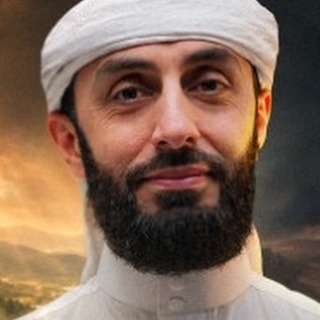
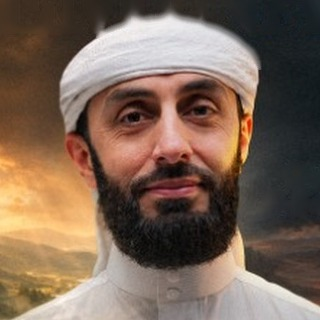
Restore original thumbnails; zoomed-out portrait of Shaykh Ali
Claude-Session: https://claude.ai/code/session_01KZfaKi19dkNuS3dSrDceg3

diff --git a/index.html b/index.html
@@ -215,7 +215,7 @@ h1.shine{animation:shimmer 6s linear infinite, fadeUp .9s cubic-bezier(.2,.7,.2,
 <div style="display: flex; flex-direction: column; gap: 16px">
 <div class="city-group" data-group="London" style="display: flex; flex-direction: column; gap: 16px">
 <div class="lift reveal" style="background: #3B2C1B; border: 1px solid rgba(226,193,126,0.35); border-radius: 20px; padding: 18px; display: flex; flex-wrap: wrap; align-items: center; gap: 20px 28px">
-<img src="assets/thumb-righteous-home.jpg" alt="" style="width: 128px; height: 100px; object-fit: cover; object-position: center bottom; border-radius: 12px; border: 1px solid rgba(226,193,126,0.4); display: block; flex: none">
+<img src="assets/thumb-righteous-home.jpg" alt="" style="width: 104px; height: 104px; object-fit: cover; object-position: center top; border-radius: 12px; border: 1px solid rgba(226,193,126,0.4); display: block; flex: none">
 <div style="flex: none; width: 84px; text-align: center"><p class="gold-text" style="margin: 0; font-family: Cinzel, serif; font-size: 44px; font-weight: 700; line-height: 1">24</p><p style="margin: 2px 0 0; font-size: 12px; font-weight: 600; letter-spacing: 0.24em; color: #E2C17E">DEC</p><p style="margin: 6px 0 0; font-family: 'Playfair Display', serif; font-style: italic; font-size: 14px; color: #F3EAD6">Thursday</p></div>
 <div style="flex: 999 1 260px; min-width: 0">
 <p style="margin: 0 0 4px; display: inline-block; font-size: 11px; font-weight: 700; letter-spacing: 0.16em; text-transform: uppercase; color: #1A140C; background: #F1D99C; padding: 2px 10px; border-radius: 999px">Brothers only</p>
@@ -229,7 +229,7 @@ h1.shine{animation:shimmer 6s linear infinite, fadeUp .9s cubic-bezier(.2,.7,.2,
 </div>
 
 <div class="lift reveal" style="background: #3B2C1B; border: 1px solid rgba(226,193,126,0.35); border-radius: 20px; padding: 18px; display: flex; flex-wrap: wrap; align-items: center; gap: 20px 28px">
-<img src="assets/thumb-productive-ramadan.jpg" alt="" style="width: 128px; height: 100px; object-fit: cover; object-position: center bottom; border-radius: 12px; border: 1px solid rgba(226,193,126,0.4); display: block; flex: none">
+<img src="assets/thumb-productive-ramadan.jpg" alt="" style="width: 104px; height: 104px; object-fit: cover; object-position: center top; border-radius: 12px; border: 1px solid rgba(226,193,126,0.4); display: block; flex: none">
 <div style="flex: none; width: 84px; text-align: center"><p class="gold-text" style="margin: 0; font-family: Cinzel, serif; font-size: 44px; font-weight: 700; line-height: 1">24</p><p style="margin: 2px 0 0; font-size: 12px; font-weight: 600; letter-spacing: 0.24em; color: #E2C17E">DEC</p><p style="margin: 6px 0 0; font-family: 'Playfair Display', serif; font-style: italic; font-size: 14px; color: #F3EAD6">Thursday</p></div>
 <div style="flex: 999 1 260px; min-width: 0">
 <p style="margin: 0 0 4px; display: inline-block; font-size: 11px; font-weight: 700; letter-spacing: 0.16em; text-transform: uppercase; color: #1A140C; background: #F1D99C; padding: 2px 10px; border-radius: 999px">[Open to]</p>
@@ -243,7 +243,7 @@ h1.shine{animation:shimmer 6s linear infinite, fadeUp .9s cubic-bezier(.2,.7,.2,
 </div>
 
 <div class="lift reveal" style="background: #3B2C1B; border: 1px solid rgba(226,193,126,0.35); border-radius: 20px; padding: 18px; display: flex; flex-wrap: wrap; align-items: center; gap: 20px 28px">
-<img src="assets/thumb-araf-london.jpg" alt="" style="width: 128px; height: 100px; object-fit: cover; object-position: center bottom; border-radius: 12px; border: 1px solid rgba(226,193,126,0.4); display: block; flex: none">
+<img src="assets/thumb-araf-london.jpg" alt="" style="width: 104px; height: 104px; object-fit: cover; object-position: center top; border-radius: 12px; border: 1px solid rgba(226,193,126,0.4); display: block; flex: none">
 <div style="flex: none; width: 84px; text-align: center"><p class="gold-text" style="margin: 0; font-family: Cinzel, serif; font-size: 44px; font-weight: 700; line-height: 1">26</p><p style="margin: 2px 0 0; font-size: 12px; font-weight: 600; letter-spacing: 0.24em; color: #E2C17E">DEC</p><p style="margin: 6px 0 0; font-family: 'Playfair Display', serif; font-style: italic; font-size: 14px; color: #F3EAD6">Saturday</p></div>
 <div style="flex: 999 1 260px; min-width: 0">
 <p style="margin: 0 0 4px; display: inline-block; font-size: 11px; font-weight: 700; letter-spacing: 0.16em; text-transform: uppercase; color: #1A140C; background: #F1D99C; padding: 2px 10px; border-radius: 999px">[Open to]</p>
@@ -257,7 +257,7 @@ h1.shine{animation:shimmer 6s linear infinite, fadeUp .9s cubic-bezier(.2,.7,.2,
 </div>
 
 <div class="lift reveal" style="background: #3B2C1B; border: 1px solid rgba(226,193,126,0.35); border-radius: 20px; padding: 18px; display: flex; flex-wrap: wrap; align-items: center; gap: 20px 28px">
-<img src="assets/thumb-al-fatiha.jpg" alt="" style="width: 128px; height: 100px; object-fit: cover; object-position: center bottom; border-radius: 12px; border: 1px solid rgba(226,193,126,0.4); display: block; flex: none">
+<img src="assets/thumb-al-fatiha.jpg" alt="" style="width: 104px; height: 104px; object-fit: cover; object-position: center top; border-radius: 12px; border: 1px solid rgba(226,193,126,0.4); display: block; flex: none">
 <div style="flex: none; width: 84px; text-align: center"><p class="gold-text" style="margin: 0; font-family: Cinzel, serif; font-size: 44px; font-weight: 700; line-height: 1">9</p><p style="margin: 2px 0 0; font-size: 12px; font-weight: 600; letter-spacing: 0.24em; color: #E2C17E">JAN</p><p style="margin: 6px 0 0; font-family: 'Playfair Display', serif; font-style: italic; font-size: 14px; color: #F3EAD6">Saturday</p></div>
 <div style="flex: 999 1 260px; min-width: 0">
 <p style="margin: 0 0 4px; display: inline-block; font-size: 11px; font-weight: 700; letter-spacing: 0.16em; text-transform: uppercase; color: #1A140C; background: #F1D99C; padding: 2px 10px; border-radius: 999px">Special seminar</p>
@@ -272,7 +272,7 @@ h1.shine{animation:shimmer 6s linear infinite, fadeUp .9s cubic-bezier(.2,.7,.2,
 </div>
 <div class="city-group" data-group="Birmingham" hidden style="display: flex; flex-direction: column; gap: 16px">
 <div class="lift reveal" style="background: #3B2C1B; border: 1px solid rgba(226,193,126,0.35); border-radius: 20px; padding: 18px; display: flex; flex-wrap: wrap; align-items: center; gap: 20px 28px">
-<img src="assets/thumb-righteous-home.jpg" alt="" style="width: 128px; height: 100px; object-fit: cover; object-position: center bottom; border-radius: 12px; border: 1px solid rgba(226,193,126,0.4); display: block; flex: none">
+<img src="assets/thumb-righteous-home.jpg" alt="" style="width: 104px; height: 104px; object-fit: cover; object-position: center top; border-radius: 12px; border: 1px solid rgba(226,193,126,0.4); display: block; flex: none">
 <div style="flex: none; width: 84px; text-align: center"><p class="gold-text" style="margin: 0; font-family: Cinzel, serif; font-size: 44px; font-weight: 700; line-height: 1">26</p><p style="margin: 2px 0 0; font-size: 12px; font-weight: 600; letter-spacing: 0.24em; color: #E2C17E">DEC</p><p style="margin: 6px 0 0; font-family: 'Playfair Display', serif; font-style: italic; font-size: 14px; color: #F3EAD6">Saturday</p></div>
 <div style="flex: 999 1 260px; min-width: 0">
 <p style="margin: 0 0 4px; display: inline-block; font-size: 11px; font-weight: 700; letter-spacing: 0.16em; text-transform: uppercase; color: #1A140C; background: #F1D99C; padding: 2px 10px; border-radius: 999px">Brothers only</p>
@@ -286,7 +286,7 @@ h1.shine{animation:shimmer 6s linear infinite, fadeUp .9s cubic-bezier(.2,.7,.2,
 </div>
 
 <div class="lift reveal" style="background: #3B2C1B; border: 1px solid rgba(226,193,126,0.35); border-radius: 20px; padding: 18px; display: flex; flex-wrap: wrap; align-items: center; gap: 20px 28px">
-<img src="assets/thumb-productive-ramadan.jpg" alt="" style="width: 128px; height: 100px; object-fit: cover; object-position: center bottom; border-radius: 12px; border: 1px solid rgba(226,193,126,0.4); display: block; flex: none">
+<img src="assets/thumb-productive-ramadan.jpg" alt="" style="width: 104px; height: 104px; object-fit: cover; object-position: center top; border-radius: 12px; border: 1px solid rgba(226,193,126,0.4); display: block; flex: none">
 <div style="flex: none; width: 84px; text-align: center"><p class="gold-text" style="margin: 0; font-family: Cinzel, serif; font-size: 44px; font-weight: 700; line-height: 1">26</p><p style="margin: 2px 0 0; font-size: 12px; font-weight: 600; letter-spacing: 0.24em; color: #E2C17E">DEC</p><p style="margin: 6px 0 0; font-family: 'Playfair Display', serif; font-style: italic; font-size: 14px; color: #F3EAD6">Saturday</p></div>
 <div style="flex: 999 1 260px; min-width: 0">
 <p style="margin: 0 0 4px; display: inline-block; font-size: 11px; font-weight: 700; letter-spacing: 0.16em; text-transform: uppercase; color: #1A140C; background: #F1D99C; padding: 2px 10px; border-radius: 999px">[Open to]</p>
@@ -300,7 +300,7 @@ h1.shine{animation:shimmer 6s linear infinite, fadeUp .9s cubic-bezier(.2,.7,.2,
 </div>
 
 <div class="lift reveal" style="background: #3B2C1B; border: 1px solid rgba(226,193,126,0.35); border-radius: 20px; padding: 18px; display: flex; flex-wrap: wrap; align-items: center; gap: 20px 28px">
-<img src="assets/thumb-before-you-say.jpg" alt="" style="width: 128px; height: 100px; object-fit: cover; object-position: center bottom; border-radius: 12px; border: 1px solid rgba(226,193,126,0.4); display: block; flex: none">
+<img src="assets/thumb-before-you-say.jpg" alt="" style="width: 104px; height: 104px; object-fit: cover; object-position: center top; border-radius: 12px; border: 1px solid rgba(226,193,126,0.4); display: block; flex: none">
 <div style="flex: none; width: 84px; text-align: center"><p class="gold-text" style="margin: 0; font-family: Cinzel, serif; font-size: 44px; font-weight: 700; line-height: 1">27</p><p style="margin: 2px 0 0; font-size: 12px; font-weight: 600; letter-spacing: 0.24em; color: #E2C17E">DEC</p><p style="margin: 6px 0 0; font-family: 'Playfair Display', serif; font-style: italic; font-size: 14px; color: #F3EAD6">Sunday</p></div>
 <div style="flex: 999 1 260px; min-width: 0">
 <p style="margin: 0 0 4px; display: inline-block; font-size: 11px; font-weight: 700; letter-spacing: 0.16em; text-transform: uppercase; color: #1A140C; background: #F1D99C; padding: 2px 10px; border-radius: 999px">[Open to]</p>
@@ -314,7 +314,7 @@ h1.shine{animation:shimmer 6s linear infinite, fadeUp .9s cubic-bezier(.2,.7,.2,
 </div>
 
 <div class="lift reveal" style="background: #3B2C1B; border: 1px solid rgba(226,193,126,0.35); border-radius: 20px; padding: 18px; display: flex; flex-wrap: wrap; align-items: center; gap: 20px 28px">
-<img src="assets/thumb-al-fatiha.jpg" alt="" style="width: 128px; height: 100px; object-fit: cover; object-position: center bottom; border-radius: 12px; border: 1px solid rgba(226,193,126,0.4); display: block; flex: none">
+<img src="assets/thumb-al-fatiha.jpg" alt="" style="width: 104px; height: 104px; object-fit: cover; object-position: center top; border-radius: 12px; border: 1px solid rgba(226,193,126,0.4); display: block; flex: none">
 <div style="flex: none; width: 84px; text-align: center"><p class="gold-text" style="margin: 0; font-family: Cinzel, serif; font-size: 44px; font-weight: 700; line-height: 1">10</p><p style="margin: 2px 0 0; font-size: 12px; font-weight: 600; letter-spacing: 0.24em; color: #E2C17E">JAN</p><p style="margin: 6px 0 0; font-family: 'Playfair Display', serif; font-style: italic; font-size: 14px; color: #F3EAD6">Sunday</p></div>
 <div style="flex: 999 1 260px; min-width: 0">
 <p style="margin: 0 0 4px; display: inline-block; font-size: 11px; font-weight: 700; letter-spacing: 0.16em; text-transform: uppercase; color: #1A140C; background: #F1D99C; padding: 2px 10px; border-radius: 999px">Special seminar</p>
@@ -329,7 +329,7 @@ h1.shine{animation:shimmer 6s linear infinite, fadeUp .9s cubic-bezier(.2,.7,.2,
 </div>
 <div class="city-group" data-group="Manchester" hidden style="display: flex; flex-direction: column; gap: 16px">
 <div class="lift reveal" style="background: #3B2C1B; border: 1px solid rgba(226,193,126,0.35); border-radius: 20px; padding: 18px; display: flex; flex-wrap: wrap; align-items: center; gap: 20px 28px">
-<img src="assets/thumb-righteous-home.jpg" alt="" style="width: 128px; height: 100px; object-fit: cover; object-position: center bottom; border-radius: 12px; border: 1px solid rgba(226,193,126,0.4); display: block; flex: none">
+<img src="assets/thumb-righteous-home.jpg" alt="" style="width: 104px; height: 104px; object-fit: cover; object-position: center top; border-radius: 12px; border: 1px solid rgba(226,193,126,0.4); display: block; flex: none">
 <div style="flex: none; width: 84px; text-align: center"><p class="gold-text" style="margin: 0; font-family: Cinzel, serif; font-size: 44px; font-weight: 700; line-height: 1">27</p><p style="margin: 2px 0 0; font-size: 12px; font-weight: 600; letter-spacing: 0.24em; color: #E2C17E">DEC</p><p style="margin: 6px 0 0; font-family: 'Playfair Display', serif; font-style: italic; font-size: 14px; color: #F3EAD6">Sunday</p></div>
 <div style="flex: 999 1 260px; min-width: 0">
 <p style="margin: 0 0 4px; display: inline-block; font-size: 11px; font-weight: 700; letter-spacing: 0.16em; text-transform: uppercase; color: #1A140C; background: #F1D99C; padding: 2px 10px; border-radius: 999px">Brothers only</p>
@@ -343,7 +343,7 @@ h1.shine{animation:shimmer 6s linear infinite, fadeUp .9s cubic-bezier(.2,.7,.2,
 </div>
 
 <div class="lift reveal" style="background: #3B2C1B; border: 1px solid rgba(226,193,126,0.35); border-radius: 20px; padding: 18px; display: flex; flex-wrap: wrap; align-items: center; gap: 20px 28px">
-<img src="assets/thumb-productive-ramadan.jpg" alt="" style="width: 128px; height: 100px; object-fit: cover; object-position: center bottom; border-radius: 12px; border: 1px solid rgba(226,193,126,0.4); display: block; flex: none">
+<img src="assets/thumb-productive-ramadan.jpg" alt="" style="width: 104px; height: 104px; object-fit: cover; object-position: center top; border-radius: 12px; border: 1px solid rgba(226,193,126,0.4); display: block; flex: none">
 <div style="flex: none; width: 84px; text-align: center"><p class="gold-text" style="margin: 0; font-family: Cinzel, serif; font-size: 44px; font-weight: 700; line-height: 1">27</p><p style="margin: 2px 0 0; font-size: 12px; font-weight: 600; letter-spacing: 0.24em; color: #E2C17E">DEC</p><p style="margin: 6px 0 0; font-family: 'Playfair Display', serif; font-style: italic; font-size: 14px; color: #F3EAD6">Sunday</p></div>
 <div style="flex: 999 1 260px; min-width: 0">
 <p style="margin: 0 0 4px; display: inline-block; font-size: 11px; font-weight: 700; letter-spacing: 0.16em; text-transform: uppercase; color: #1A140C; background: #F1D99C; padding: 2px 10px; border-radius: 999px">[Open to]</p>
@@ -357,7 +357,7 @@ h1.shine{animation:shimmer 6s linear infinite, fadeUp .9s cubic-bezier(.2,.7,.2,
 </div>
 
 <div class="lift reveal" style="background: #3B2C1B; border: 1px solid rgba(226,193,126,0.35); border-radius: 20px; padding: 18px; display: flex; flex-wrap: wrap; align-items: center; gap: 20px 28px">
-<img src="assets/thumb-araf-manchester.jpg" alt="" style="width: 128px; height: 100px; object-fit: cover; object-position: center bottom; border-radius: 12px; border: 1px solid rgba(226,193,126,0.4); display: block; flex: none">
+<img src="assets/thumb-araf-manchester.jpg" alt="" style="width: 104px; height: 104px; object-fit: cover; object-position: center top; border-radius: 12px; border: 1px solid rgba(226,193,126,0.4); display: block; flex: none">
 <div style="flex: none; width: 84px; text-align: center"><p class="gold-text" style="margin: 0; font-family: Cinzel, serif; font-size: 44px; font-weight: 700; line-height: 1">28</p><p style="margin: 2px 0 0; font-size: 12px; font-weight: 600; letter-spacing: 0.24em; color: #E2C17E">DEC</p><p style="margin: 6px 0 0; font-family: 'Playfair Display', serif; font-style: italic; font-size: 14px; color: #F3EAD6">Monday</p></div>
 <div style="flex: 999 1 260px; min-width: 0">
 <p style="margin: 0 0 4px; display: inline-block; font-size: 11px; font-weight: 700; letter-spacing: 0.16em; text-transform: uppercase; color: #1A140C; background: #F1D99C; padding: 2px 10px; border-radius: 999px">[Open to]</p>
